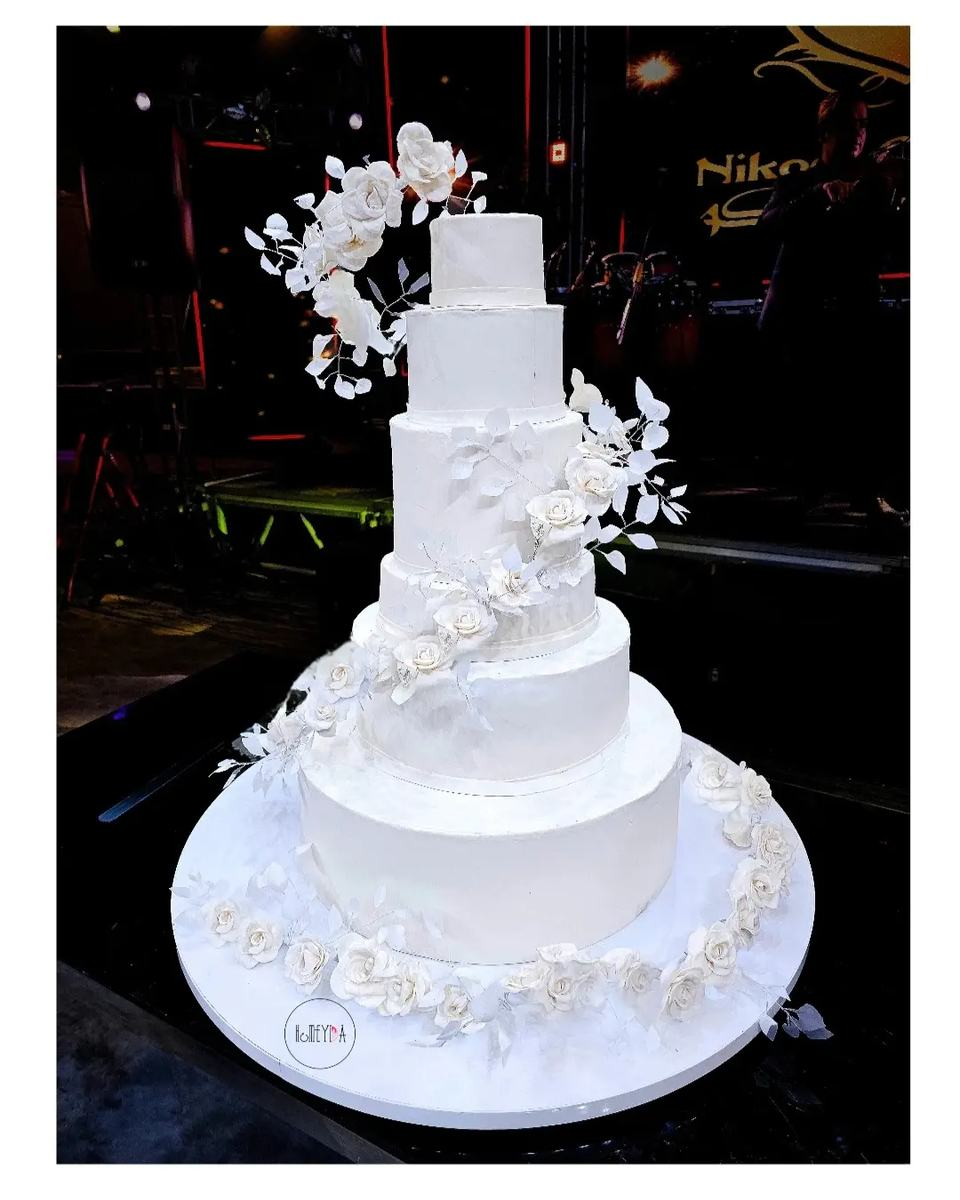
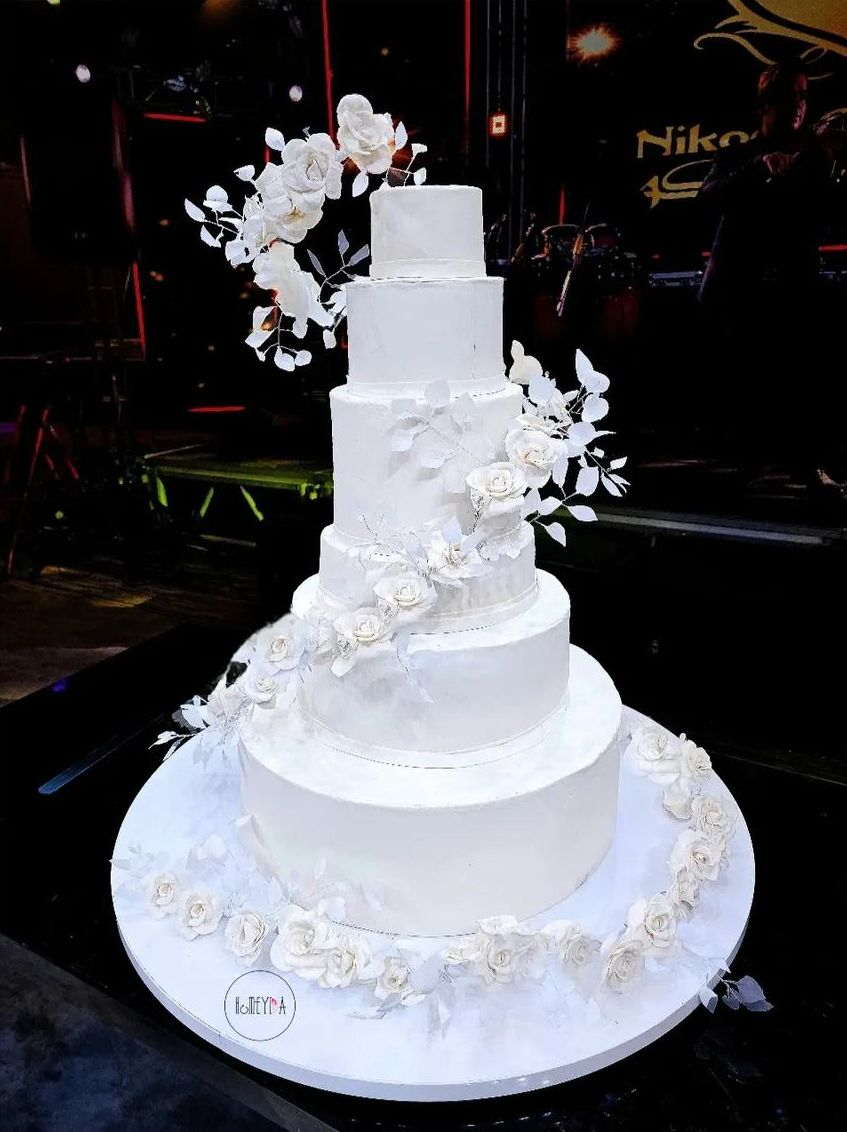
Refresh hero with HD photos and text halo; add 4 gallery cakes
- Swap hero to 6 HD shots (deep-red pomegranate opener), reordered for color contrast between neighbors
- Add hero text halo behind the title so white text stays legible over bright product shots
- Crop the Instagram white frame off wedding-tiered-white
- Add caterpillar (kids), teddy and penguin bento, and frog cakes to the gallery (41 tiles)
- Bump style.css and translations cache versions
- Shop nav link kept commented out (shop not live on prod yet)

diff --git a/index.html b/index.html
@@ -44,7 +44,7 @@
   <link rel="preconnect" href="https://fonts.googleapis.com">
   <link rel="preconnect" href="https://fonts.gstatic.com" crossorigin>
   <link href="https://fonts.googleapis.com/css2?family=Marcellus&family=Forum&family=Inter:wght@300;400;500;600;700&family=Caveat:wght@500;600&family=Vazirmatn:wght@300;400;500;600;700;800&display=swap" rel="stylesheet">
-  <link rel="stylesheet" href="css/style.css?v=25">
+  <link rel="stylesheet" href="css/style.css?v=26">
 
   <!-- Schema.org structured data -->
   <script type="application/ld+json">
@@ -140,6 +140,8 @@
       </a>
 
       <nav class="nav" aria-label="Primary">
+        <!-- Shop link hidden until shop launches on prod (avoids a dead link). Restore when shop.homeyda.com is live. -->
+        <!-- <a href="shop/" data-i18n="nav_shop">فروشگاه</a> -->
         <a href="#collections" data-i18n="nav_collections">مجموعهها</a>
         <a href="#gallery" data-i18n="nav_gallery">گالری</a>
         <a href="blog/" data-i18n="nav_blog">دفترچه</a>
@@ -158,11 +160,12 @@
   <!-- Hero -->
   <section id="hero" class="hero">
     <div class="hero__slider" aria-hidden="true">
-      <div class="hero__slide is-active" style="background-image: url('assets/images/gallery/duck-daisy-white.jpg'); background-position: center 38%;"></div>
-      <div class="hero__slide" style="background-image: url('assets/images/gallery/pomegranate-yalda.jpg'); background-position: center 42%;"></div>
-      <div class="hero__slide" style="background-image: url('assets/images/gallery/mother-rose-minimal.jpg'); background-position: center 55%;"></div>
-      <div class="hero__slide" style="background-image: url('assets/images/gallery/farmer-kid.jpg'); background-position: center 35%;"></div>
-      <div class="hero__slide" style="background-image: url('assets/images/gallery/teddy-autumn.jpg'); background-position: center 45%;"></div>
+      <div class="hero__slide is-active" style="background-image: url('assets/images/hero/hero-red-pomegranate.jpg'); background-position: center 50%;"></div>
+      <div class="hero__slide" style="background-image: url('assets/images/hero/hero-vintage-cream.jpg'); background-position: center 52%;"></div>
+      <div class="hero__slide" style="background-image: url('assets/images/hero/hero-beach-teal.jpg'); background-position: center 48%;"></div>
+      <div class="hero__slide" style="background-image: url('assets/images/hero/hero-vintage-roses.jpg'); background-position: center 46%;"></div>
+      <div class="hero__slide" style="background-image: url('assets/images/hero/hero-butterfly-pastel.jpg'); background-position: center 45%;"></div>
+      <div class="hero__slide" style="background-image: url('assets/images/hero/hero-minicakes-roses.jpg'); background-position: center 55%;"></div>
     </div>
     <div class="hero__overlay" aria-hidden="true"></div>
     <div class="hero__vignette" aria-hidden="true"></div>
@@ -197,6 +200,7 @@
       <button class="hero__dot" data-slide="2" aria-label="Slide 3"></button>
       <button class="hero__dot" data-slide="3" aria-label="Slide 4"></button>
       <button class="hero__dot" data-slide="4" aria-label="Slide 5"></button>
+      <button class="hero__dot" data-slide="5" aria-label="Slide 6"></button>
     </div>
 
     <a href="#collections" class="hero__scroll" aria-label="Scroll down">
@@ -387,7 +391,19 @@
       <button class="gallery__tile" type="button" style="--ar: 0.799" data-tags="character,birthday,fun" data-src="assets/images/gallery/comic-cake-rainbow-slice.jpg" data-caption-fa="کیک کارتونی اسلایسی — رنگینکمان، کرم پستهای زعفرانی" data-caption-en="Comic slice cake — rainbow, pistachio-saffron filling">
         <img src="assets/images/gallery/comic-cake-rainbow-slice.jpg" alt="Rainbow comic slice cake" loading="lazy">
       </button>
-    
+      <button class="gallery__tile" type="button" style="--ar: 0.8" data-tags="character,kids,birthday" data-src="assets/images/gallery/caterpillar-kids.jpg" data-caption-fa="کیک تولد کودک — کرمهای رنگی و بامزه" data-caption-en="Kids birthday cake — cute colourful caterpillars">
+        <img src="assets/images/gallery/caterpillar-kids.jpg" alt="Kids caterpillar birthday cake" loading="lazy">
+      </button>
+      <button class="gallery__tile" type="button" style="--ar: 0.8" data-tags="bento,character,kids" data-src="assets/images/gallery/bento-teddy-months.jpg" data-caption-fa="بنتوکیک خرس — تمِ تدی برای جشن ماهگی" data-caption-en="Teddy bento — bear theme for a baby's milestone">
+        <img src="assets/images/gallery/bento-teddy-months.jpg" alt="Teddy bear bento milestone cake" loading="lazy">
+      </button>
+      <button class="gallery__tile" type="button" style="--ar: 0.8" data-tags="bento,character,kids" data-src="assets/images/gallery/bento-penguin-months.jpg" data-caption-fa="بنتوکیک پنگوئن — جشن ماهگیِ نوزاد" data-caption-en="Penguin bento — baby monthly milestone">
+        <img src="assets/images/gallery/bento-penguin-months.jpg" alt="Penguin bento milestone cake" loading="lazy">
+      </button>
+      <button class="gallery__tile" type="button" style="--ar: 0.8" data-tags="character,fun,birthday" data-src="assets/images/gallery/frog-green.jpg" data-caption-fa="کیک قورباغه — سبزِ بامزه با وسپا" data-caption-en="Frog cake — playful green with a Vespa">
+        <img src="assets/images/gallery/frog-green.jpg" alt="Green frog cake with Vespa" loading="lazy">
+      </button>
+
     </div>
 
     <!-- Lightbox -->
@@ -644,7 +660,7 @@
   </button>
 
   <script src="js/qrcode.min.js?v=26" defer></script>
-  <script src="js/translations.js?v=27" defer></script>
+  <script src="js/translations.js?v=28" defer></script>
   <script src="js/main.js?v=26" defer></script>
 </body>
 </html>

diff --git a/css/style.css b/css/style.css
@@ -345,6 +345,20 @@ body.has-menu-open { overflow: hidden; }
   color: var(--c-cream);
 }
 
+/* Soft dark halo behind the title — keeps the white text legible over
+   bright product shots while letting the photo stay airy at the edges. */
+.hero__inner::before {
+  content: "";
+  position: absolute;
+  inset: -12% -8%;
+  z-index: -1;
+  pointer-events: none;
+  background: radial-gradient(ellipse at center,
+    rgba(26, 22, 20, 0.55) 0%,
+    rgba(26, 22, 20, 0.34) 42%,
+    rgba(26, 22, 20, 0) 72%);
+}
+
 .hero__logo {
   width: clamp(110px, 13vw, 150px);
   height: clamp(110px, 13vw, 150px);

diff --git a/js/translations.js b/js/translations.js
@@ -9,6 +9,7 @@ window.HOMEYDA_I18N = {
 
     nav_collections: "مجموعهها",
     nav_gallery: "گالری",
+    nav_shop: "فروشگاه",
     nav_blog: "دفترچه",
     nav_about: "دربارهی هومیدا",
     nav_contact: "سفارش",
@@ -136,6 +137,7 @@ window.HOMEYDA_I18N = {
 
     nav_collections: "Collections",
     nav_gallery: "Gallery",
+    nav_shop: "Shop",
     nav_blog: "Journal",
     nav_about: "About",
     nav_contact: "Order",